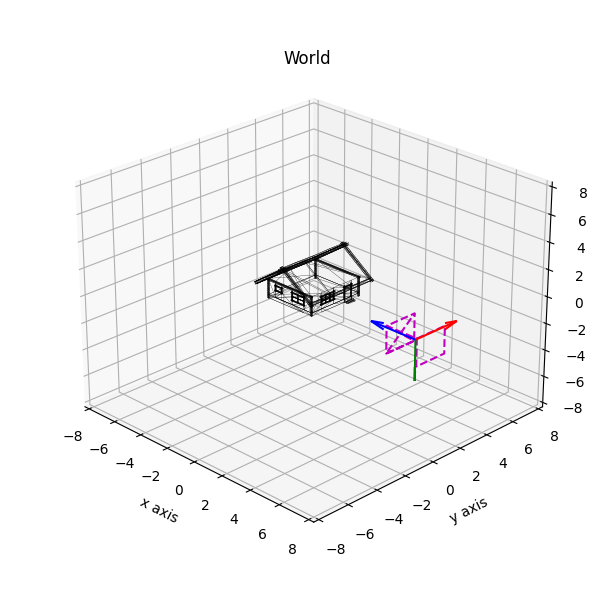
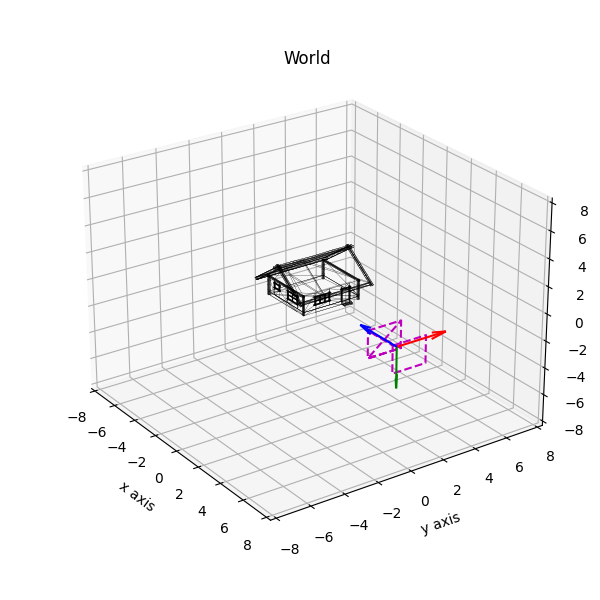
change intrinsic value > 0

diff --git a/src/main.py b/src/main.py
@@ -146,7 +146,7 @@ if __name__ == '__main__':
     house = Object_Stl(name = "WoodHouse")
 
     # Define Projection in the image 
-    intrinsicParameter = intrinsicParameter_matrix( f=-5, 
+    intrinsicParameter = intrinsicParameter_matrix( f= 5, 
                                                     sX = 10,
                                                     sY = 10,
                                                     sTheta = 0,
